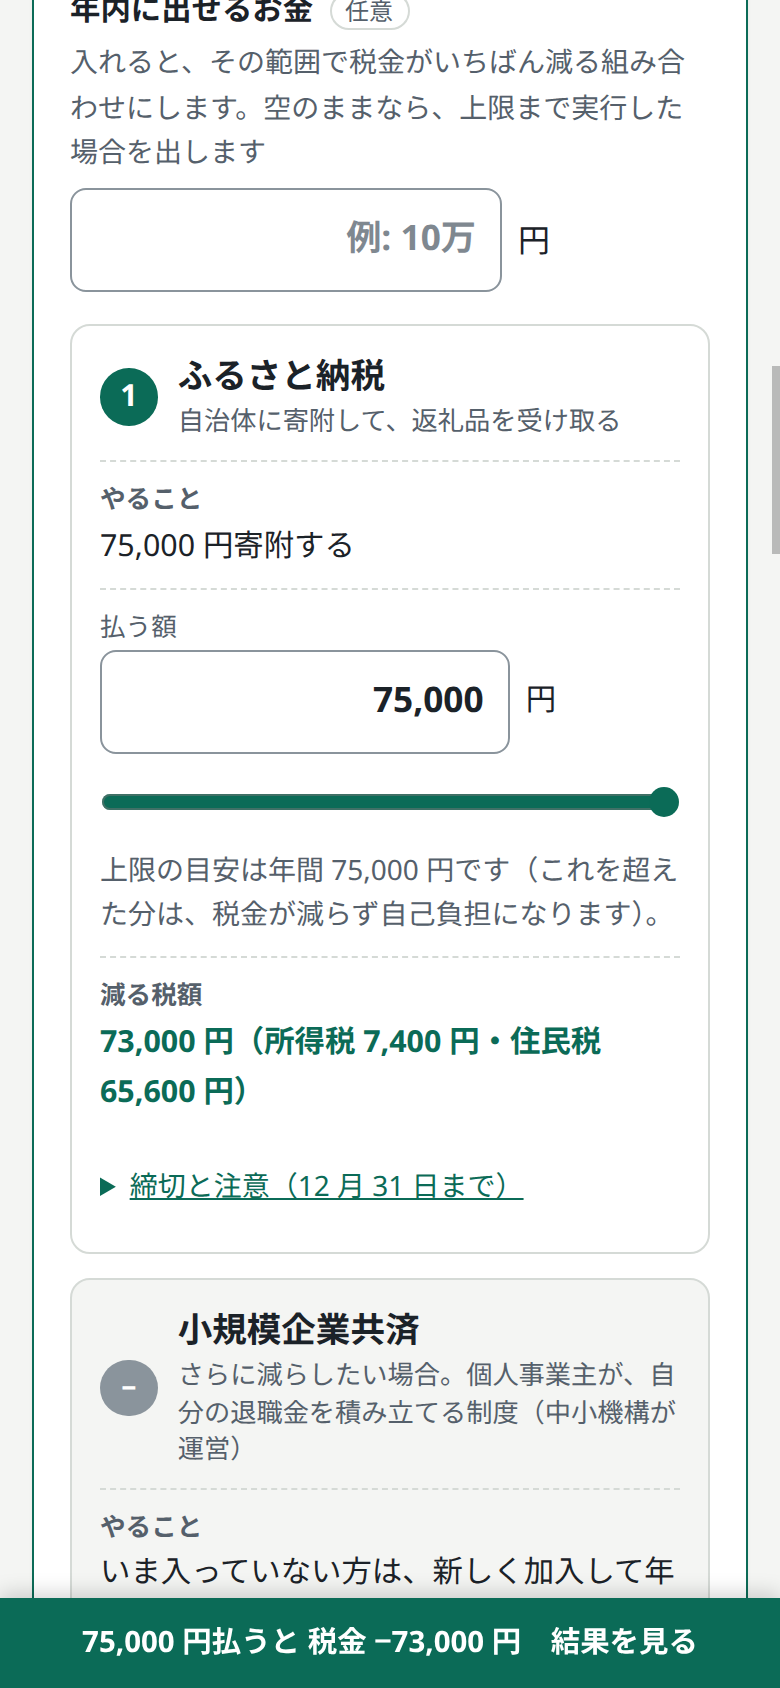
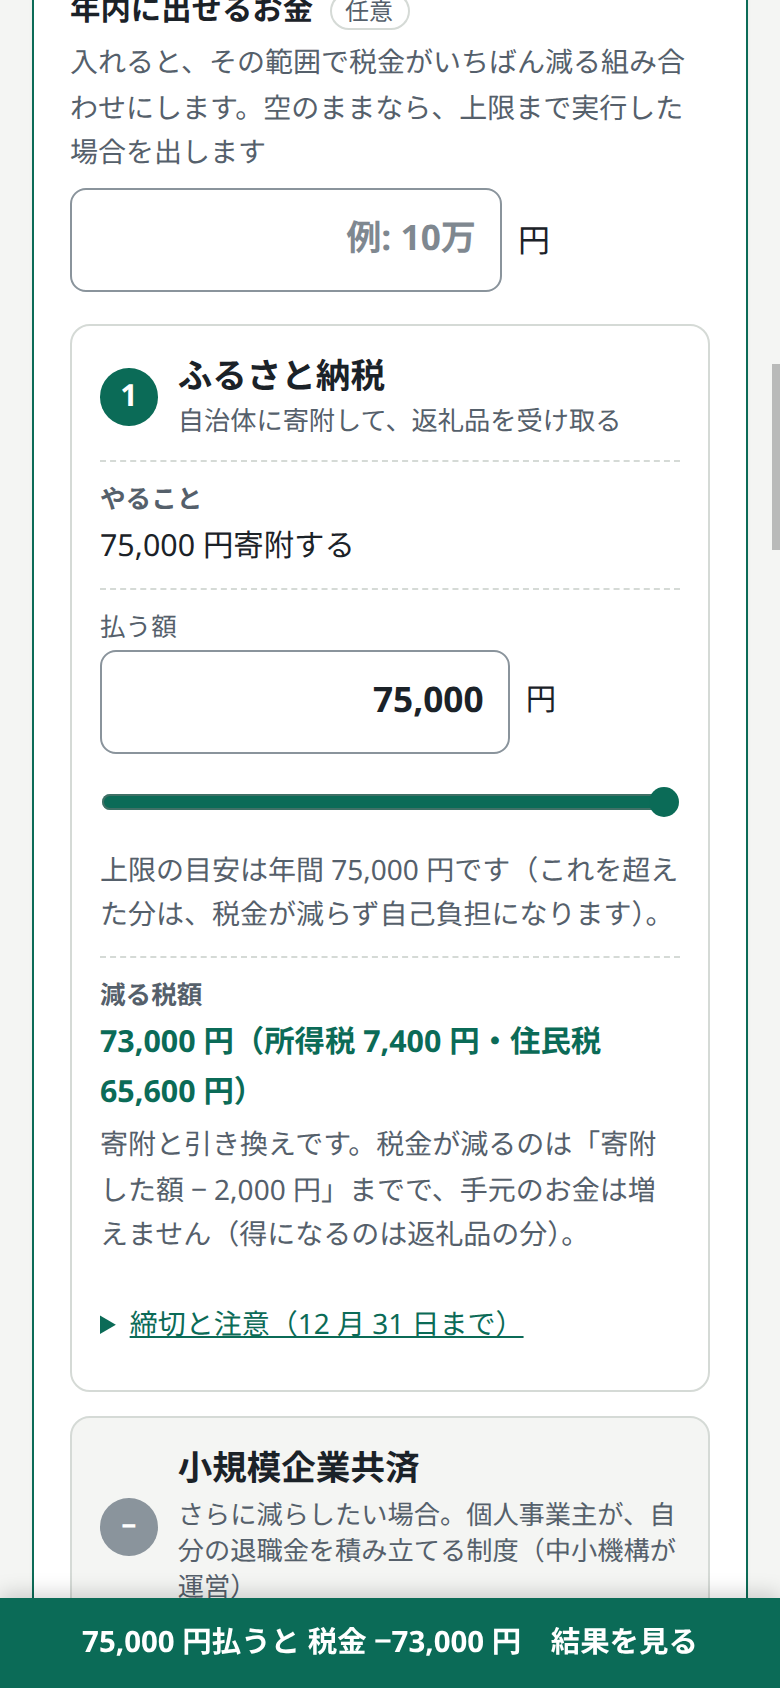
利用者役の確認で残ったつまずきを直す（金額を入れるを選んだ直後の結果、ふるさと納税の説明）

Changed region(s): [[0.1231, 0.7701, 0.8615, 0.955], [0.1231, 0.6469, 0.8615, 0.7393], [0.8923, 0.7393, 0.9231, 0.7701]]

diff --git a/web/logic.ts b/web/logic.ts
@@ -192,13 +192,21 @@ export type TopOutcome =
 const yen = (n: number): string => `${n.toLocaleString("ja-JP")} 円`;
 const filled = (value: string | boolean | undefined): boolean => typeof value === "string" && value.trim() !== "";
 
+/**
+ * 社会保険料を目安で置くか。「分からない」を選んでいる間と、「金額を入れる」を選んだがまだ額を入れていない間
+ * （選んだとたんに 0 円として計算して、結果が大きく動くことがないようにする）。
+ */
+function usesEstimate(values: FormValues): boolean {
+  return values["si-mode"] === "estimate" || (values["si-mode"] === "enter" && !filled(values["social-insurance"]));
+}
+
 /** トップページの値を、CLI のフラグと同じ形の値にそろえる（目安の社会保険料はまだ入れない）。 */
 function normalizeTop(values: FormValues): FormValues {
   const v: FormValues = { ...values };
   // 「給料はない」を選んでいる間は、給与の欄を隠しているので値を使わない
   if (v["work"] === "freelance") v["salary"] = "";
   if (v["blue"] === "unknown") v["blue"] = "";
-  if (v["si-mode"] === "estimate") v["social-insurance"] = "";
+  if (usesEstimate(values)) v["social-insurance"] = "";
   return v;
 }
 
@@ -227,7 +235,7 @@ export function computeTop(values: FormValues): TopOutcome {
   const issues: string[] = [];
   try {
     let insurance: InsuranceEstimate | null = null;
-    if (values["si-mode"] === "estimate") {
+    if (usesEstimate(values)) {
       // 所得は社会保険料に関係なく決まるので、先に社会保険料なしで計算して、目安の計算に使う
       const first = calculate(flagsToInput(valuesToFlags(v)));
       const kind = first.input.salaryRevenue > 0 ? "employee" : "freelance";

diff --git a/docs/js/web/logic.js b/docs/js/web/logic.js
@@ -110,6 +110,13 @@ export function isBlank(values) {
 export const TOP_ONLY_NAMES = ["work", "si-mode", "misc-assumed", "furusato-add", "budget"];
 const yen = (n) => `${n.toLocaleString("ja-JP")} 円`;
 const filled = (value) => typeof value === "string" && value.trim() !== "";
+/**
+ * 社会保険料を目安で置くか。「分からない」を選んでいる間と、「金額を入れる」を選んだがまだ額を入れていない間
+ * （選んだとたんに 0 円として計算して、結果が大きく動くことがないようにする）。
+ */
+function usesEstimate(values) {
+    return values["si-mode"] === "estimate" || (values["si-mode"] === "enter" && !filled(values["social-insurance"]));
+}
 /** トップページの値を、CLI のフラグと同じ形の値にそろえる（目安の社会保険料はまだ入れない）。 */
 function normalizeTop(values) {
     const v = { ...values };
@@ -118,7 +125,7 @@ function normalizeTop(values) {
         v["salary"] = "";
     if (v["blue"] === "unknown")
         v["blue"] = "";
-    if (v["si-mode"] === "estimate")
+    if (usesEstimate(values))
         v["social-insurance"] = "";
     return v;
 }
@@ -145,7 +152,7 @@ export function computeTop(values) {
     const issues = [];
     try {
         let insurance = null;
-        if (values["si-mode"] === "estimate") {
+        if (usesEstimate(values)) {
             // 所得は社会保険料に関係なく決まるので、先に社会保険料なしで計算して、目安の計算に使う
             const first = calculate(flagsToInput(valuesToFlags(v)));
             const kind = first.input.salaryRevenue > 0 ? "employee" : "freelance";

diff --git a/docs/style.css b/docs/style.css
@@ -194,7 +194,7 @@ code { font-family: ui-monospace, SFMono-Regular, Menlo, Consolas, monospace; fo
 .results-title { margin: 0; }
 .placeholder { margin: 0; padding: 28px 18px; border: 1px dashed var(--strong-border); border-radius: var(--radius); color: var(--muted); text-align: center; }
 .plan { padding: 18px; border-color: var(--accent); }
-.plan.stale .plan-lead, .plan.stale .headline, .plan.stale .saving, .plan.stale #totals-note, .plan.stale .share, .plan.stale .assumed, .plan.stale .later { opacity: 0.35; }
+.plan.stale .plan-lead, .plan.stale .headline, .plan.stale .steps .saving, .plan.stale #totals-note, .plan.stale .share, .plan.stale .assumed, .plan.stale .later { opacity: 0.35; }
 .plan > h3 { font-size: 0.9rem; color: var(--accent); letter-spacing: 0.04em; margin-bottom: 4px; }
 .plan-lead { margin: 0; font-size: clamp(1.15rem, 4.4vw, 1.4rem); font-weight: 700; line-height: 1.5; font-variant-numeric: tabular-nums; }
 .approx { margin: 6px 0 0; color: var(--muted); font-size: 0.875rem; }
@@ -234,7 +234,8 @@ code { font-family: ui-monospace, SFMono-Regular, Menlo, Consolas, monospace; fo
 }
 .steps dt label { margin: 0; font-size: inherit; font-weight: 400; }
 .steps dd { margin: 0; font-size: 0.95rem; }
-.steps dd.saving { font-weight: 700; color: var(--accent); font-variant-numeric: tabular-nums; }
+.steps .saving { display: block; }
+.steps .saving { font-weight: 700; color: var(--accent); font-variant-numeric: tabular-nums; }
 .amount-field { display: flex; align-items: center; gap: 8px; max-width: 15em; }
 .amount-field input { margin-top: 0; text-align: right; font-size: 1.1rem; font-weight: 700; }
 .unit { flex: none; }

diff --git a/docs/index.html b/docs/index.html
@@ -74,7 +74,7 @@
       </div>
       <div class="only-si-estimate guide" id="si-guide" aria-live="polite"></div>
       <div class="only-si-enter">
-        <label>社会保険料の年額
+        <label>社会保険料の年額<span class="sub">入れるまでは、目安の額で計算しています</span>
           <input name="social-insurance" inputmode="numeric" placeholder="例: 59万"></label>
         <details class="help">
           <summary>どこを見れば分かる？</summary>
@@ -196,7 +196,8 @@
             <span class="amount-field"><input id="furusato-add" name="furusato-add" form="form" inputmode="numeric" aria-describedby="furusato-hint"><span class="unit">円</span></span>
             <input type="range" id="furusato-range" min="0" step="1000" aria-label="ふるさと納税で払う額を動かす">
             <span class="sub" id="furusato-hint"></span></dd></div>
-          <div><dt>減る税額</dt><dd class="saving" id="furusato-saving"></dd></div>
+          <div><dt>減る税額</dt><dd><span class="saving" id="furusato-saving"></span>
+            <span class="sub">寄附と引き換えです。税金が減るのは「寄附した額 − 2,000 円」までで、手元のお金は増えません（得になるのは返礼品の分）。</span></dd></div>
         </dl>
         <details class="help more-info">
           <summary>締切と注意（12 月 31 日まで）</summary>

diff --git a/docs/js/web/main.js b/docs/js/web/main.js
@@ -318,6 +318,8 @@ function start() {
                     ? `あと ${yen(f.amount)}寄附する（寄附済みの ${yen(f.paid)}と合わせて、ことしの合計 ${yen(f.paid + f.amount)}）`
                     : `${yen(f.amount)}寄附する`);
             const hint = [`上限の目安は年間 ${yen(f.limit)}です（これを超えた分は、税金が減らず自己負担になります）。`];
+            if (f.paid >= 2_000 && f.amount > 0)
+                hint.push("自己負担の 2,000 円は寄附済みの分で負担しているので、追加の分はほぼ全額が税金から引かれます。");
             if (f.limit < m.furusato.limit)
                 hint.push(`掛金を払う分、上限の目安は ${yen(m.furusato.limit)}から下がっています。`);
             text("furusato-hint", hint.join(""));
@@ -503,6 +505,8 @@ function start() {
             ...fromQuery,
             work: typeof salary === "string" && salary.trim() !== "" ? "employee" : "freelance",
             "si-mode": "enter",
+            // 社会保険料の指定がなければ、CLI と同じく 0 円（目安は使わない）
+            "social-insurance": typeof fromQuery["social-insurance"] === "string" ? fromQuery["social-insurance"] : "0",
             misc: fromQuery["misc"] === true,
             blue: typeof fromQuery["blue"] === "string" ? fromQuery["blue"] : "none",
         });

diff --git a/web/main.ts b/web/main.ts
@@ -370,6 +370,7 @@ function start(): void {
             : `${yen(f.amount)}寄附する`,
       );
       const hint = [`上限の目安は年間 ${yen(f.limit)}です（これを超えた分は、税金が減らず自己負担になります）。`];
+      if (f.paid >= 2_000 && f.amount > 0) hint.push("自己負担の 2,000 円は寄附済みの分で負担しているので、追加の分はほぼ全額が税金から引かれます。");
       if (f.limit < m.furusato.limit) hint.push(`掛金を払う分、上限の目安は ${yen(m.furusato.limit)}から下がっています。`);
       text("furusato-hint", hint.join(""));
       $("furusato-saving").replaceChildren(
@@ -598,6 +599,8 @@ function start(): void {
       ...fromQuery,
       work: typeof salary === "string" && salary.trim() !== "" ? "employee" : "freelance",
       "si-mode": "enter",
+      // 社会保険料の指定がなければ、CLI と同じく 0 円（目安は使わない）
+      "social-insurance": typeof fromQuery["social-insurance"] === "string" ? fromQuery["social-insurance"] : "0",
       misc: fromQuery["misc"] === true,
       blue: typeof fromQuery["blue"] === "string" ? fromQuery["blue"] : "none",
     });

diff --git a/test/top.test.ts b/test/top.test.ts
@@ -181,6 +181,13 @@ describe("トップページ: 仮に置いた値を結果に示す", () => {
     assert.match(top.assumptions[0]?.text ?? "", /573,000 円.*529,000 円〜690,000 円/);
   });
 
+  it("「金額を入れる」を選んでも、額を入れるまでは目安で計算する（0 円として計算しない）", () => {
+    const chosen = done({ ...QUICK, "si-mode": "enter", "social-insurance": "" });
+    assert.equal(chosen.result.input.socialInsurance, 573_000);
+    assert.equal(chosen.assumptions[0]?.key, "insurance");
+    assert.equal(done({ ...QUICK, "si-mode": "enter", "social-insurance": "0" }).result.input.socialInsurance, 0);
+  });
+
   it("入力した項目は、仮に置いた値から消える", () => {
     const top = done({ ...QUICK, "si-mode": "enter", "social-insurance": "50万", blue: "65", "has-spouse": true, "ideco-paid": "0" });
     assert.deepEqual(top.assumptions, []);
